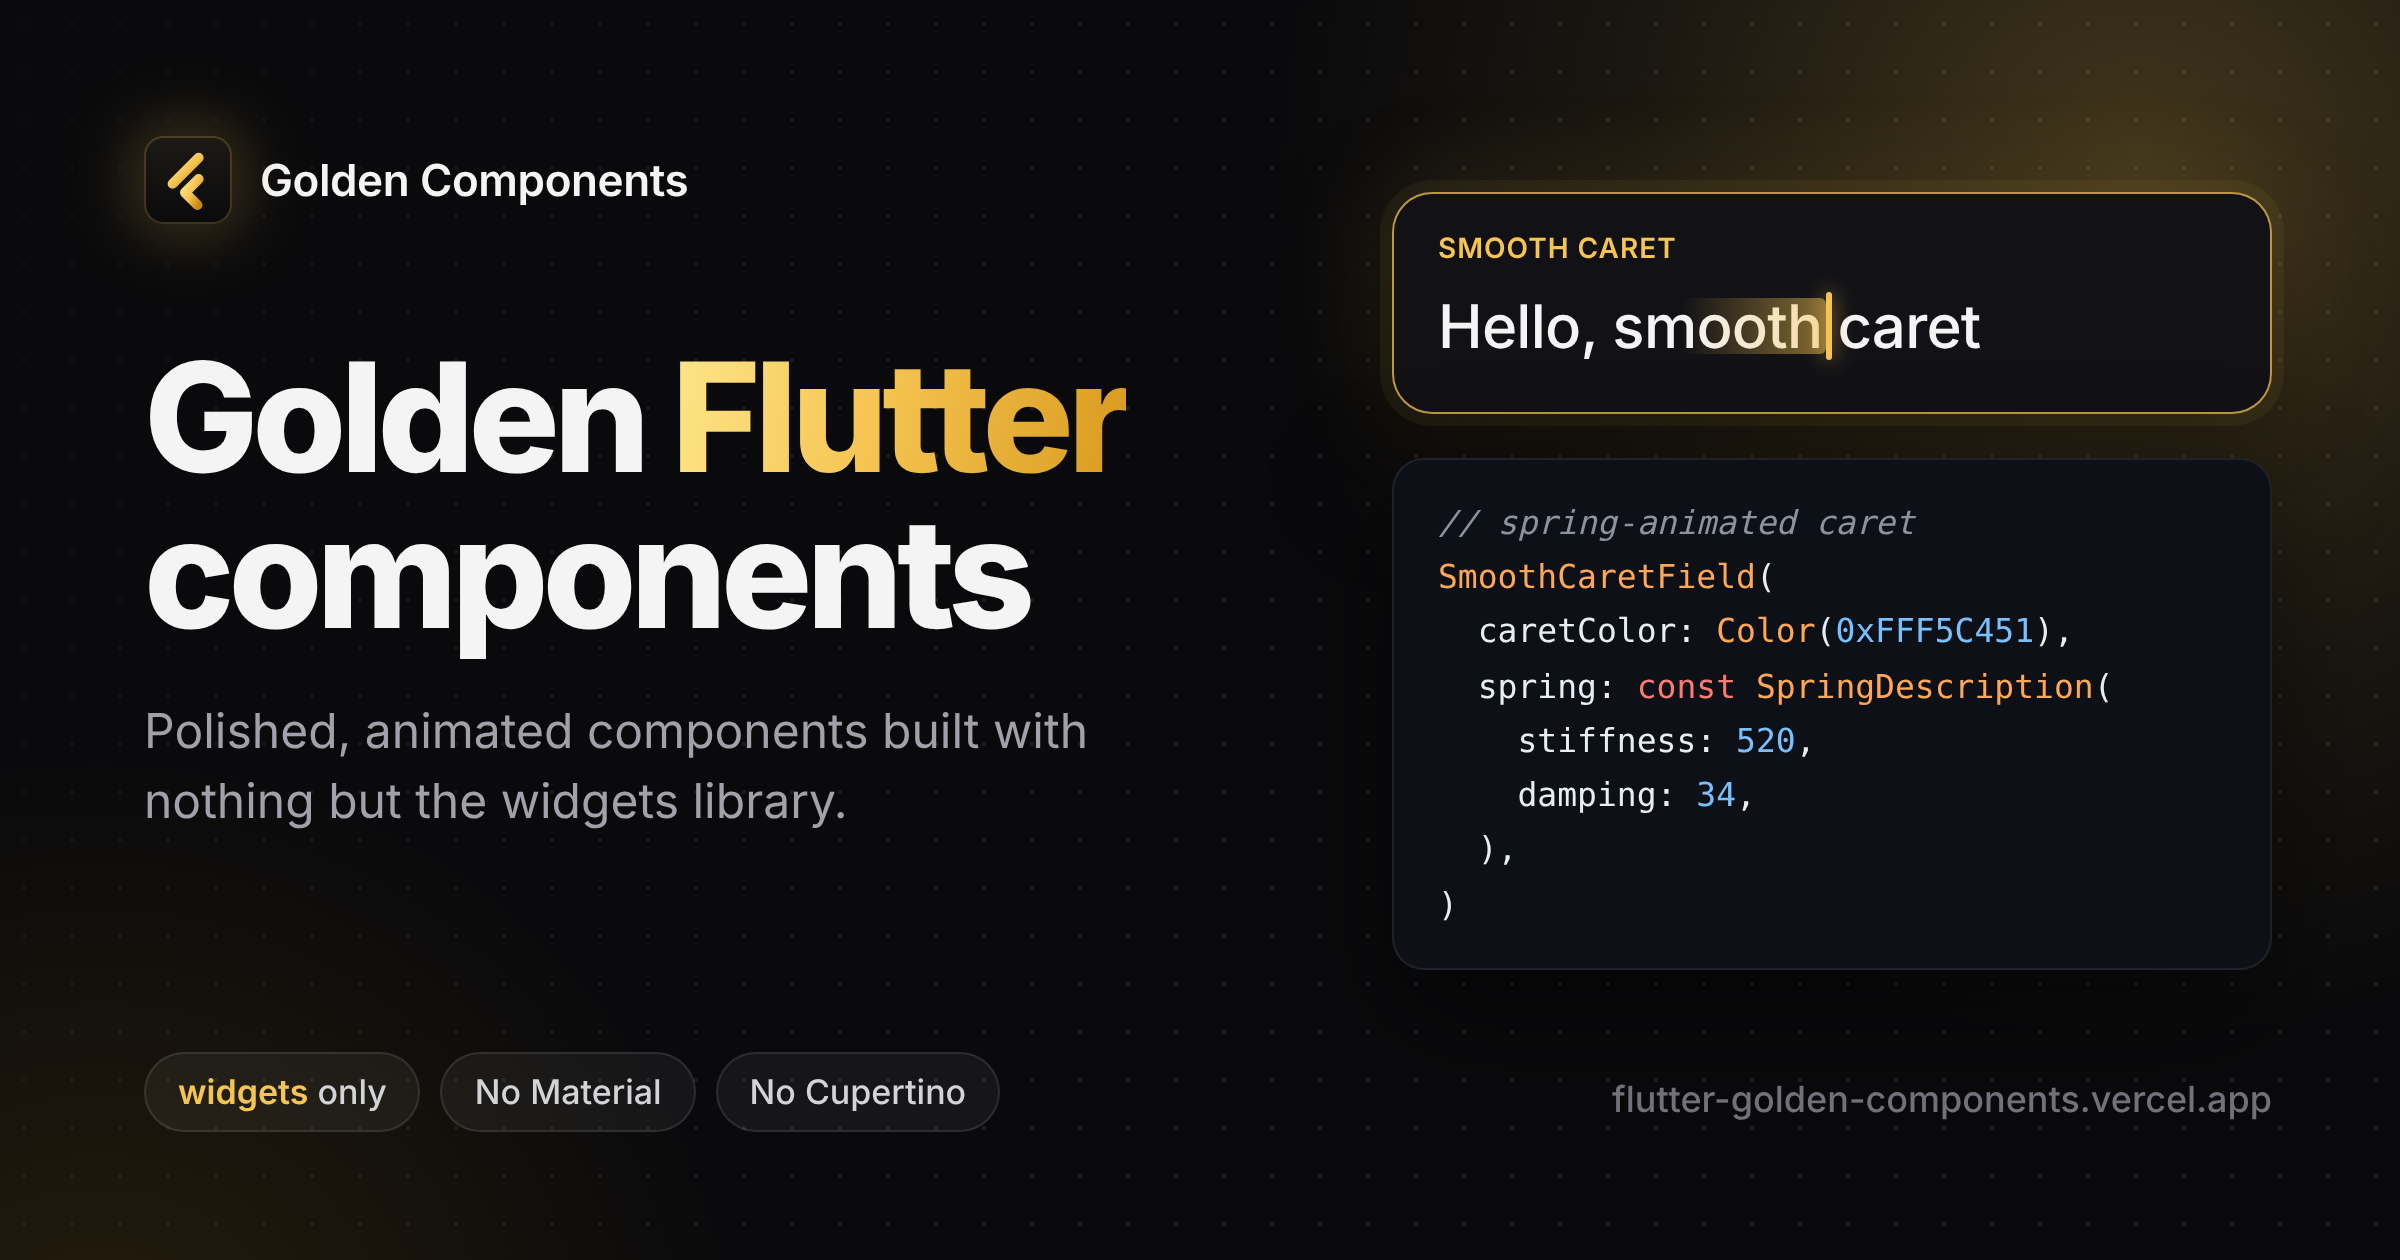
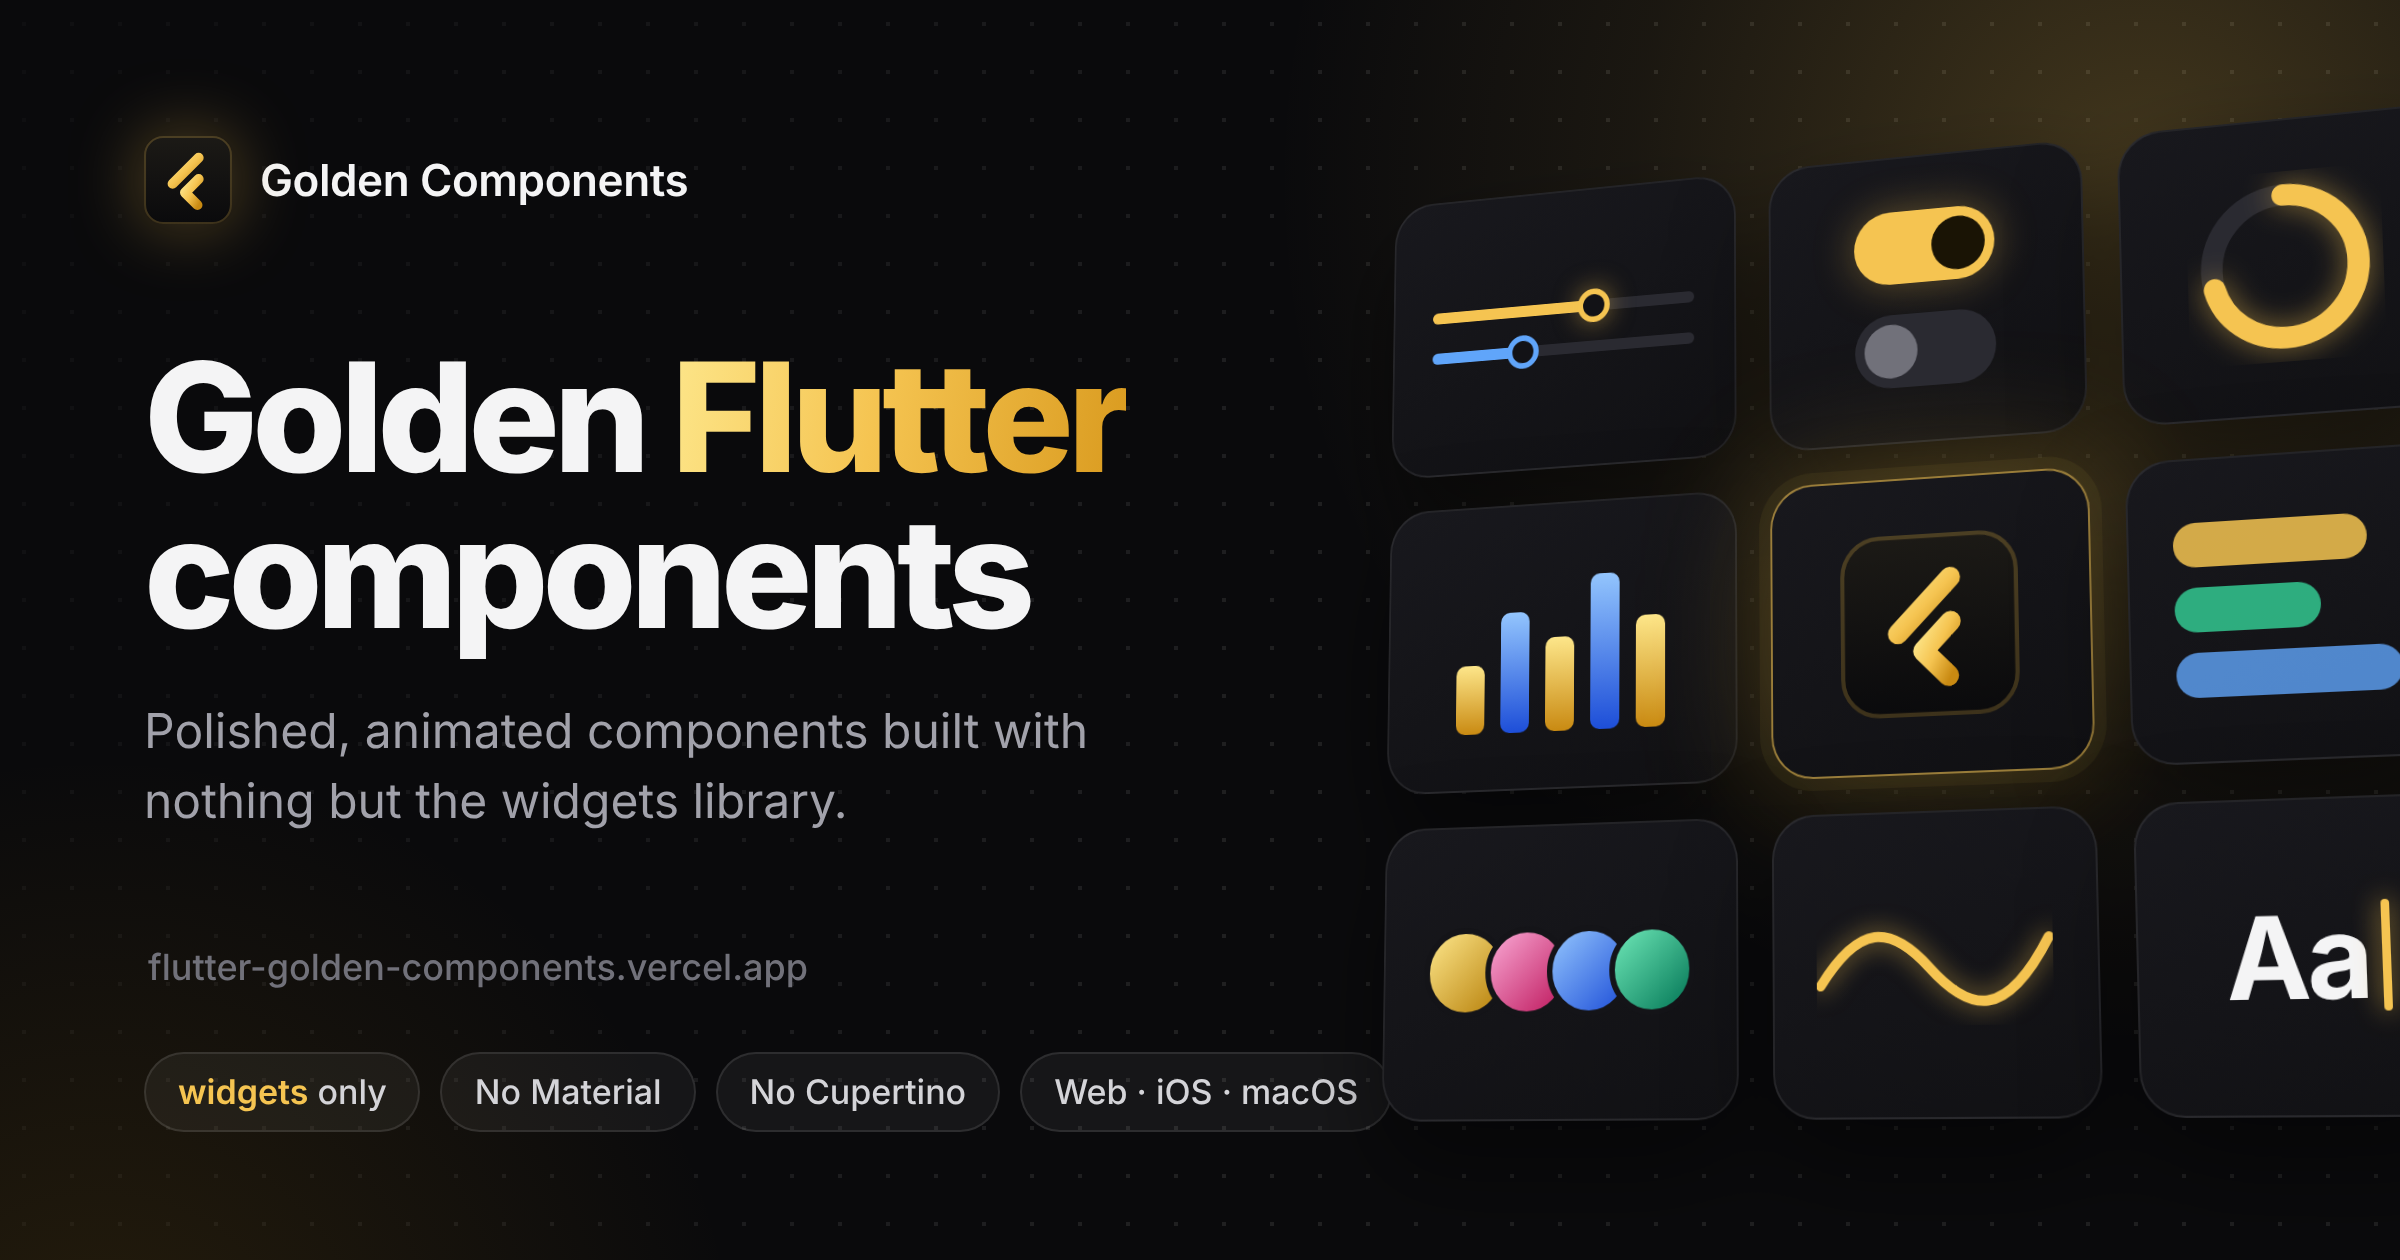
Make the social card general instead of showcasing one component
Replace the Smooth Caret mock and code snippet with an angled wall of
abstract component tiles around the gold mark, so the card fits the whole
gallery; move the URL into the left column and add a Web/iOS/macOS chip.

Claude-Session: https://claude.ai/code/session_01Lau5SnzYcLALEXvzM8Simn

diff --git a/scripts/og/og.html b/scripts/og/og.html
@@ -46,28 +46,56 @@
   }
   .chip b { color: #F5C451; font-weight: 600; }
 
-  .right { position: absolute; right: 64px; top: 96px; width: 440px; }
-  .card {
-    border-radius: 20px; padding: 18px 22px 22px;
-    background: #121216; border: 1.5px solid rgba(245,196,81,0.75);
-    box-shadow: 0 0 0 6px rgba(245,196,81,0.06), 0 24px 60px rgba(0,0,0,0.55), 0 0 60px rgba(245,196,81,0.14);
+  .wall {
+    position: absolute; right: -30px; top: 70px; width: 560px;
+    display: grid; grid-template-columns: repeat(3, 1fr); gap: 18px;
+    transform: perspective(1400px) rotateY(-16deg) rotateX(8deg) rotateZ(-3deg);
   }
-  .label { font-size: 14px; font-weight: 600; letter-spacing: 0.5px; color: #F5C451; }
-  .field { position: relative; margin-top: 10px; font-size: 30px; font-weight: 500; letter-spacing: -0.4px; height: 42px; line-height: 42px; white-space: nowrap; }
-  .caret {
-    position: absolute; top: 4px; width: 3px; height: 34px; border-radius: 2px; background: #F5C451;
-    box-shadow: 0 0 10px rgba(245,196,81,0.8);
+  .tile {
+    height: 150px; border-radius: 22px; display: flex; flex-direction: column;
+    align-items: center; justify-content: center; gap: 16px; padding: 22px;
+    background: linear-gradient(160deg, #18181d 0%, #111114 100%);
+    border: 1px solid rgba(255,255,255,0.08);
+    box-shadow: 0 24px 50px rgba(0,0,0,0.5);
   }
-  .trail { position: absolute; top: 7px; height: 28px; border-radius: 3px;
-    background: linear-gradient(90deg, rgba(245,196,81,0) 0%, rgba(245,196,81,0.5) 100%); }
-  .code {
-    margin-top: 22px; border-radius: 16px; padding: 18px 22px;
-    background: #0D1117; border: 1px solid rgba(255,255,255,0.08);
-    font-family: 'GalleryMono', monospace; font-size: 16.5px; line-height: 1.65; color: #E6EDF3;
-    box-shadow: 0 24px 60px rgba(0,0,0,0.5);
+  .tile.hero {
+    border-color: rgba(245,196,81,0.6);
+    box-shadow: 0 0 0 6px rgba(245,196,81,0.06), 0 0 70px rgba(245,196,81,0.28), 0 24px 50px rgba(0,0,0,0.55);
   }
-  .k { color: #FF7B72; } .t { color: #FFA657; } .n { color: #79C0FF; } .c { color: #8B949E; font-style: italic; }
-  .url { position: absolute; right: 64px; bottom: 70px; font-size: 18px; color: #71717A; font-weight: 500; }
+  .tile.hero img { width: 92px; height: 92px; }
+  .slider { position: relative; width: 100%; height: 6px; border-radius: 3px; background: #2a2a31; }
+  .slider i { position: absolute; left: 0; top: 0; bottom: 0; border-radius: 3px; background: #F5C451; }
+  .slider b { position: absolute; top: 50%; width: 18px; height: 18px; margin: -9px 0 0 -9px; border-radius: 50%;
+    background: #121216; border: 3px solid #F5C451; box-shadow: 0 0 14px rgba(245,196,81,0.5); }
+  .slider.dim i { background: #60A5FA; } .slider.dim b { border-color: #60A5FA; box-shadow: none; }
+  .toggle { width: 74px; height: 38px; border-radius: 19px; background: #2a2a31; position: relative; }
+  .toggle b { position: absolute; top: 5px; left: 5px; width: 28px; height: 28px; border-radius: 50%; background: #71717A; }
+  .toggle.on { background: #F5C451; box-shadow: 0 0 22px rgba(245,196,81,0.35); }
+  .toggle.on b { left: 41px; background: #1A1405; }
+  .ring { width: 96px; height: 96px; }
+  .ring circle { fill: none; stroke-width: 9; }
+  .ring .track { stroke: #2a2a31; }
+  .ring .arc { stroke: #F5C451; stroke-linecap: round; stroke-dasharray: 188.5; stroke-dashoffset: 55;
+    transform: rotate(-90deg); transform-origin: 40px 40px; filter: drop-shadow(0 0 6px rgba(245,196,81,0.5)); }
+  .bars { display: flex; align-items: flex-end; gap: 9px; height: 90px; }
+  .bars i { width: 16px; border-radius: 5px; background: linear-gradient(#FDE68A, #C98A12); }
+  .bars i:nth-child(2n) { background: linear-gradient(#93C5FD, #1D4ED8); }
+  .pills { display: flex; flex-direction: column; gap: 10px; width: 100%; }
+  .pills i { height: 22px; border-radius: 11px; background: rgba(245,196,81,0.85); width: 80%; }
+  .pills i.g { background: rgba(52,211,153,0.8); width: 60%; }
+  .pills i.b { background: rgba(96,165,250,0.8); width: 92%; }
+  .avatars { display: flex; }
+  .avatars i { width: 46px; height: 46px; border-radius: 50%; margin-left: -12px; border: 3px solid #141418;
+    background: linear-gradient(135deg, #FDE68A, #B7800A); }
+  .avatars i:first-child { margin-left: 0; }
+  .avatars i.p { background: linear-gradient(135deg, #F9A8D4, #BE185D); }
+  .avatars i.b { background: linear-gradient(135deg, #93C5FD, #1D4ED8); }
+  .avatars i.g { background: linear-gradient(135deg, #6EE7B7, #047857); }
+  .wave { width: 120px; height: 60px; }
+  .wave path { fill: none; stroke: #F5C451; stroke-width: 5; stroke-linecap: round; filter: drop-shadow(0 0 6px rgba(245,196,81,0.6)); }
+  .cursor { font-size: 54px; font-weight: 700; letter-spacing: -2px; color: #F4F4F5; display: flex; align-items: center; }
+  .cursor b { width: 4px; height: 52px; margin-left: 6px; border-radius: 2px; background: #F5C451; box-shadow: 0 0 12px rgba(245,196,81,0.8); }
+  .url { z-index: 2; position: absolute; left: 74px; bottom: 136px; font-size: 18px; color: #71717A; font-weight: 500; }
 </style>
 </head>
 <body>
@@ -81,26 +109,20 @@
     <div class="chip"><b>widgets</b> only</div>
     <div class="chip">No Material</div>
     <div class="chip">No Cupertino</div>
+    <div class="chip">Web · iOS · macOS</div>
   </div>
 
-  <div class="right">
-    <div class="card">
-      <div class="label">SMOOTH CARET</div>
-      <div class="field">Hello, smooth<span id="end"></span> caret
-        <div class="trail" id="trail"></div><div class="caret" id="caret"></div>
-      </div>
-    </div>
-    <div class="code"><span class="c">// spring-animated caret</span><br><span class="t">SmoothCaretField</span>(<br>&nbsp;&nbsp;caretColor: <span class="t">Color</span>(<span class="n">0xFFF5C451</span>),<br>&nbsp;&nbsp;spring: <span class="k">const</span> <span class="t">SpringDescription</span>(<br>&nbsp;&nbsp;&nbsp;&nbsp;stiffness: <span class="n">520</span>,<br>&nbsp;&nbsp;&nbsp;&nbsp;damping: <span class="n">34</span>,<br>&nbsp;&nbsp;),<br>)</div>
+  <div class="wall">
+    <div class="tile"><div class="slider"><i style="width:62%"></i><b style="left:62%"></b></div><div class="slider dim"><i style="width:35%"></i><b style="left:35%"></b></div></div>
+    <div class="tile"><div class="toggle on"><b></b></div><div class="toggle"><b></b></div></div>
+    <div class="tile"><svg viewBox="0 0 80 80" class="ring"><circle cx="40" cy="40" r="30" class="track"/><circle cx="40" cy="40" r="30" class="arc"/></svg></div>
+    <div class="tile"><div class="bars"><i style="height:40%"></i><i style="height:70%"></i><i style="height:55%"></i><i style="height:90%"></i><i style="height:65%"></i></div></div>
+    <div class="tile hero"><img src="../../example/web/favicon.svg" alt=""></div>
+    <div class="tile"><div class="pills"><i></i><i class="g"></i><i class="b"></i></div></div>
+    <div class="tile"><div class="avatars"><i></i><i class="p"></i><i class="b"></i><i class="g"></i></div></div>
+    <div class="tile"><svg viewBox="0 0 120 60" class="wave"><path d="M2 40 C 22 10, 38 10, 58 32 S 96 58, 118 18"/></svg></div>
+    <div class="tile"><div class="cursor"><span>Aa</span><b></b></div></div>
   </div>
   <div class="url">flutter-golden-components.vercel.app</div>
-  <script>
-    // Park the caret mid-glide after "smooth", with a motion trail behind it.
-    const end = document.getElementById('end').offsetLeft;
-    const caret = document.getElementById('caret');
-    const trail = document.getElementById('trail');
-    caret.style.left = (end + 2) + 'px';
-    trail.style.left = (end - 70) + 'px';
-    trail.style.width = '72px';
-  </script>
 </body>
 </html>
